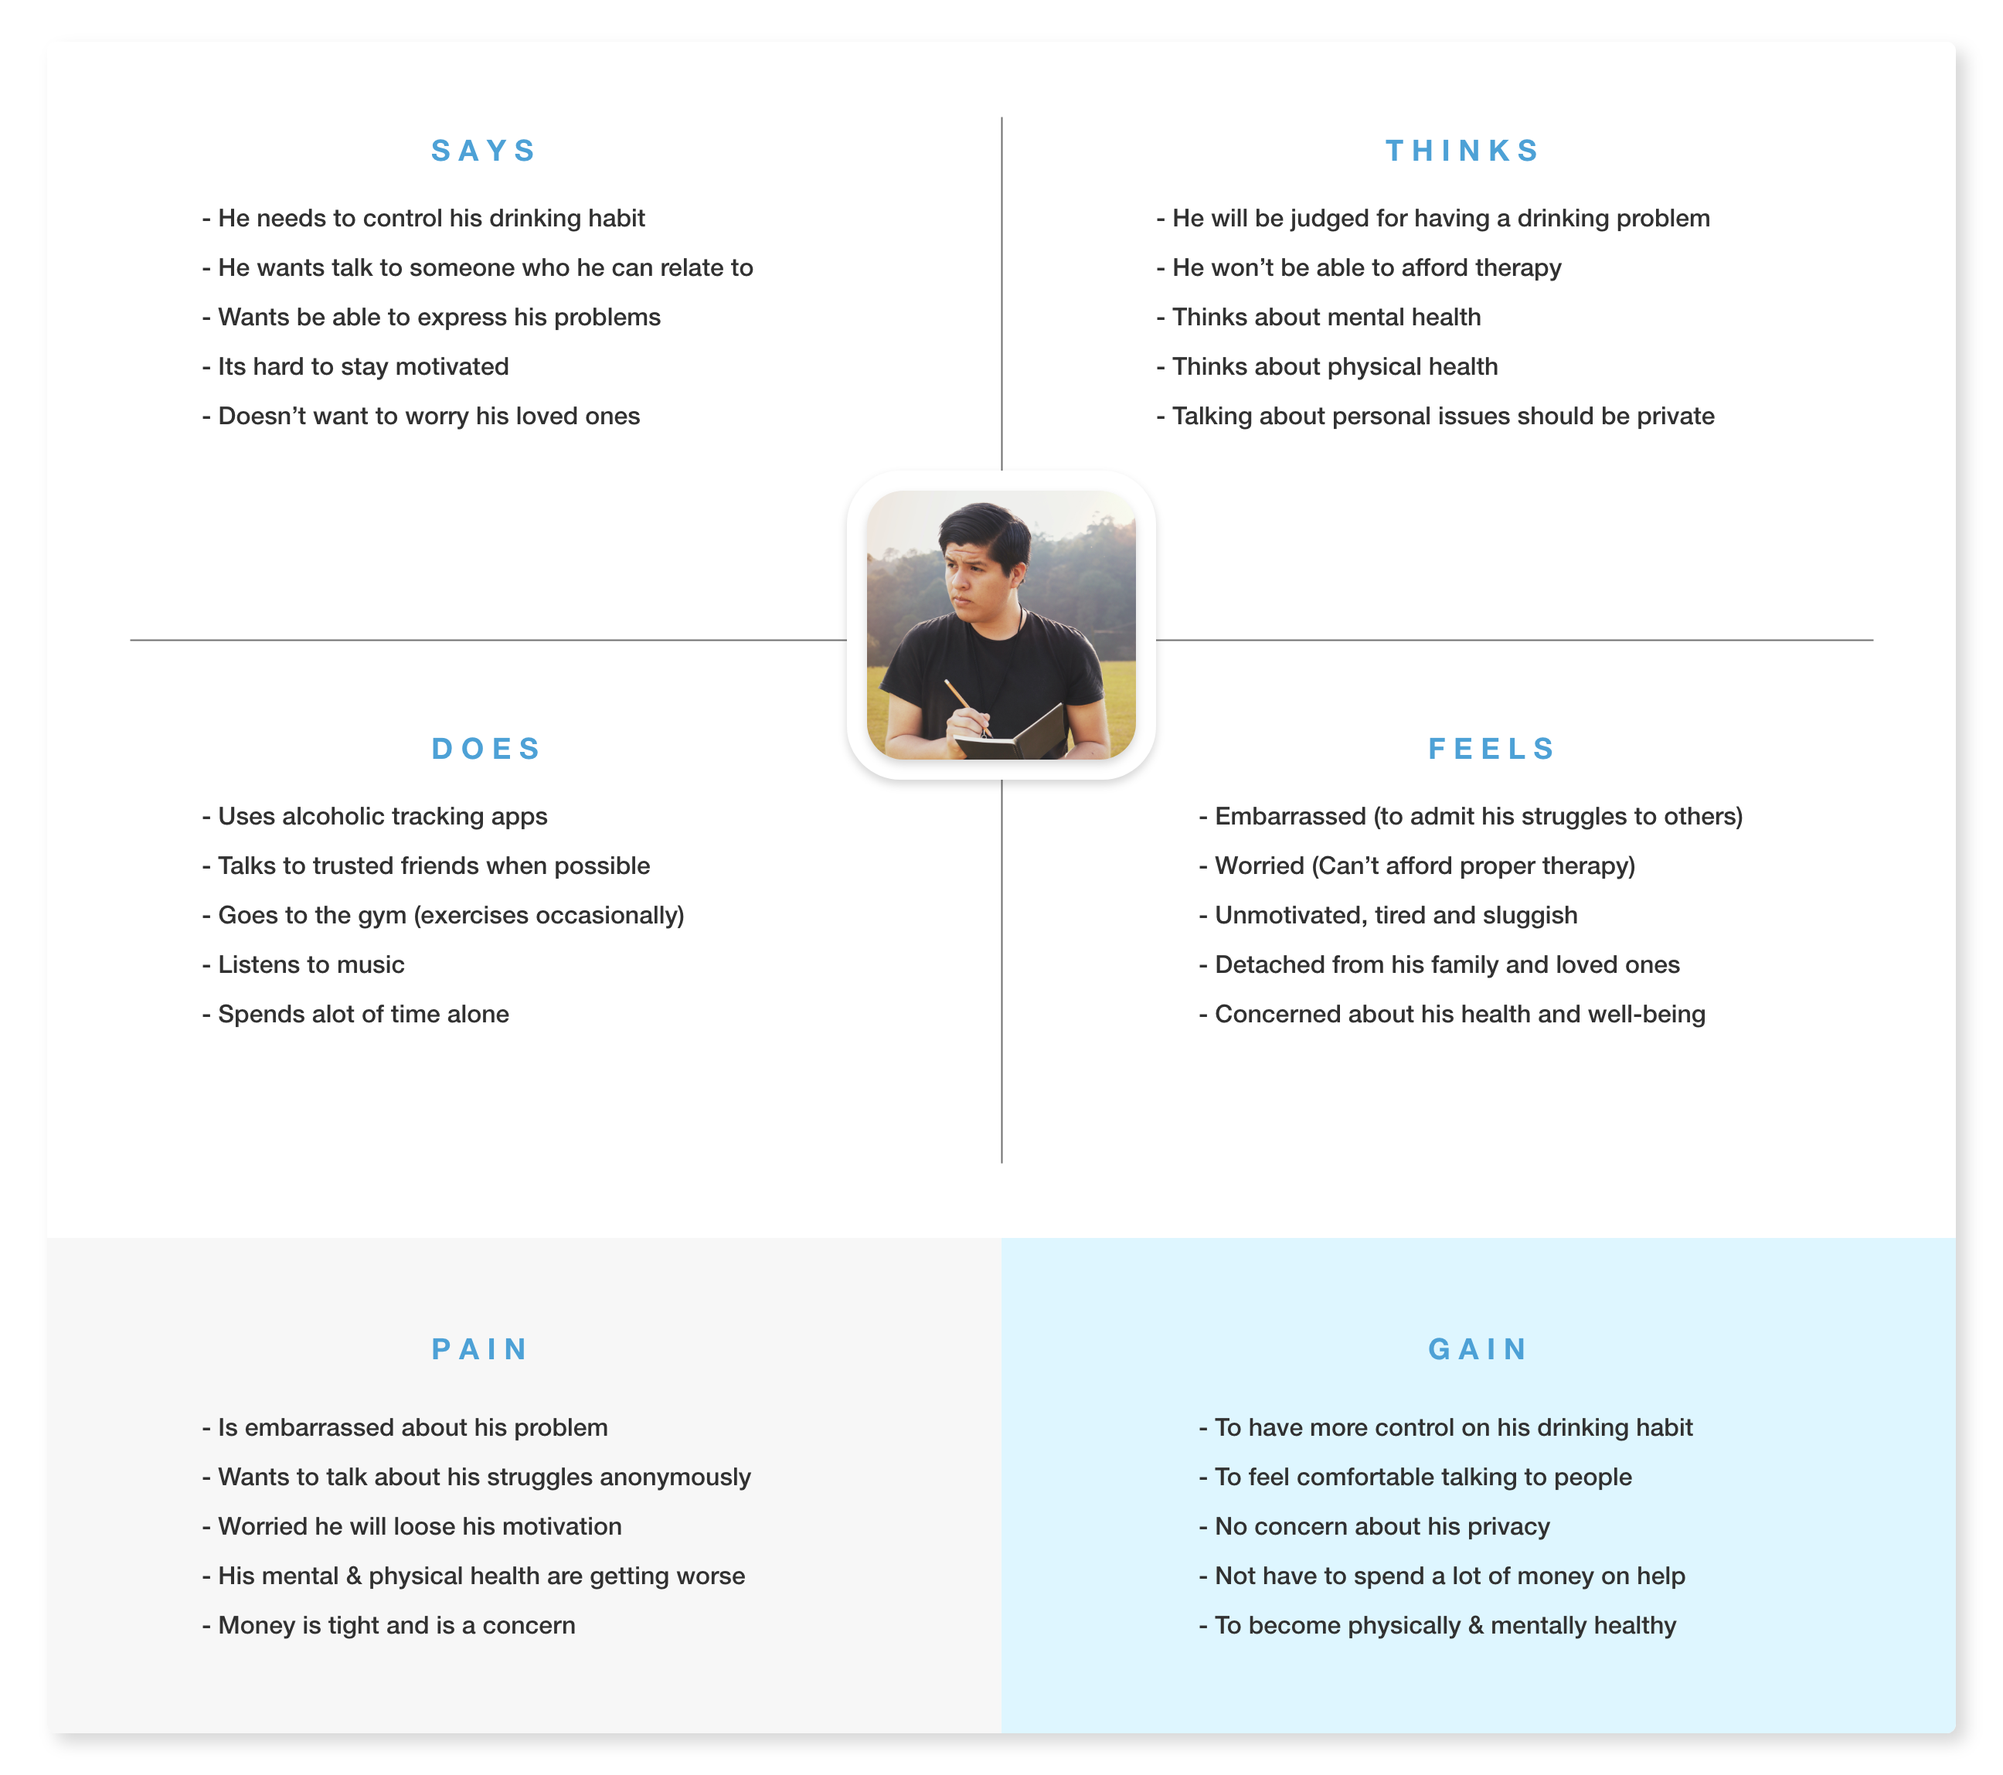
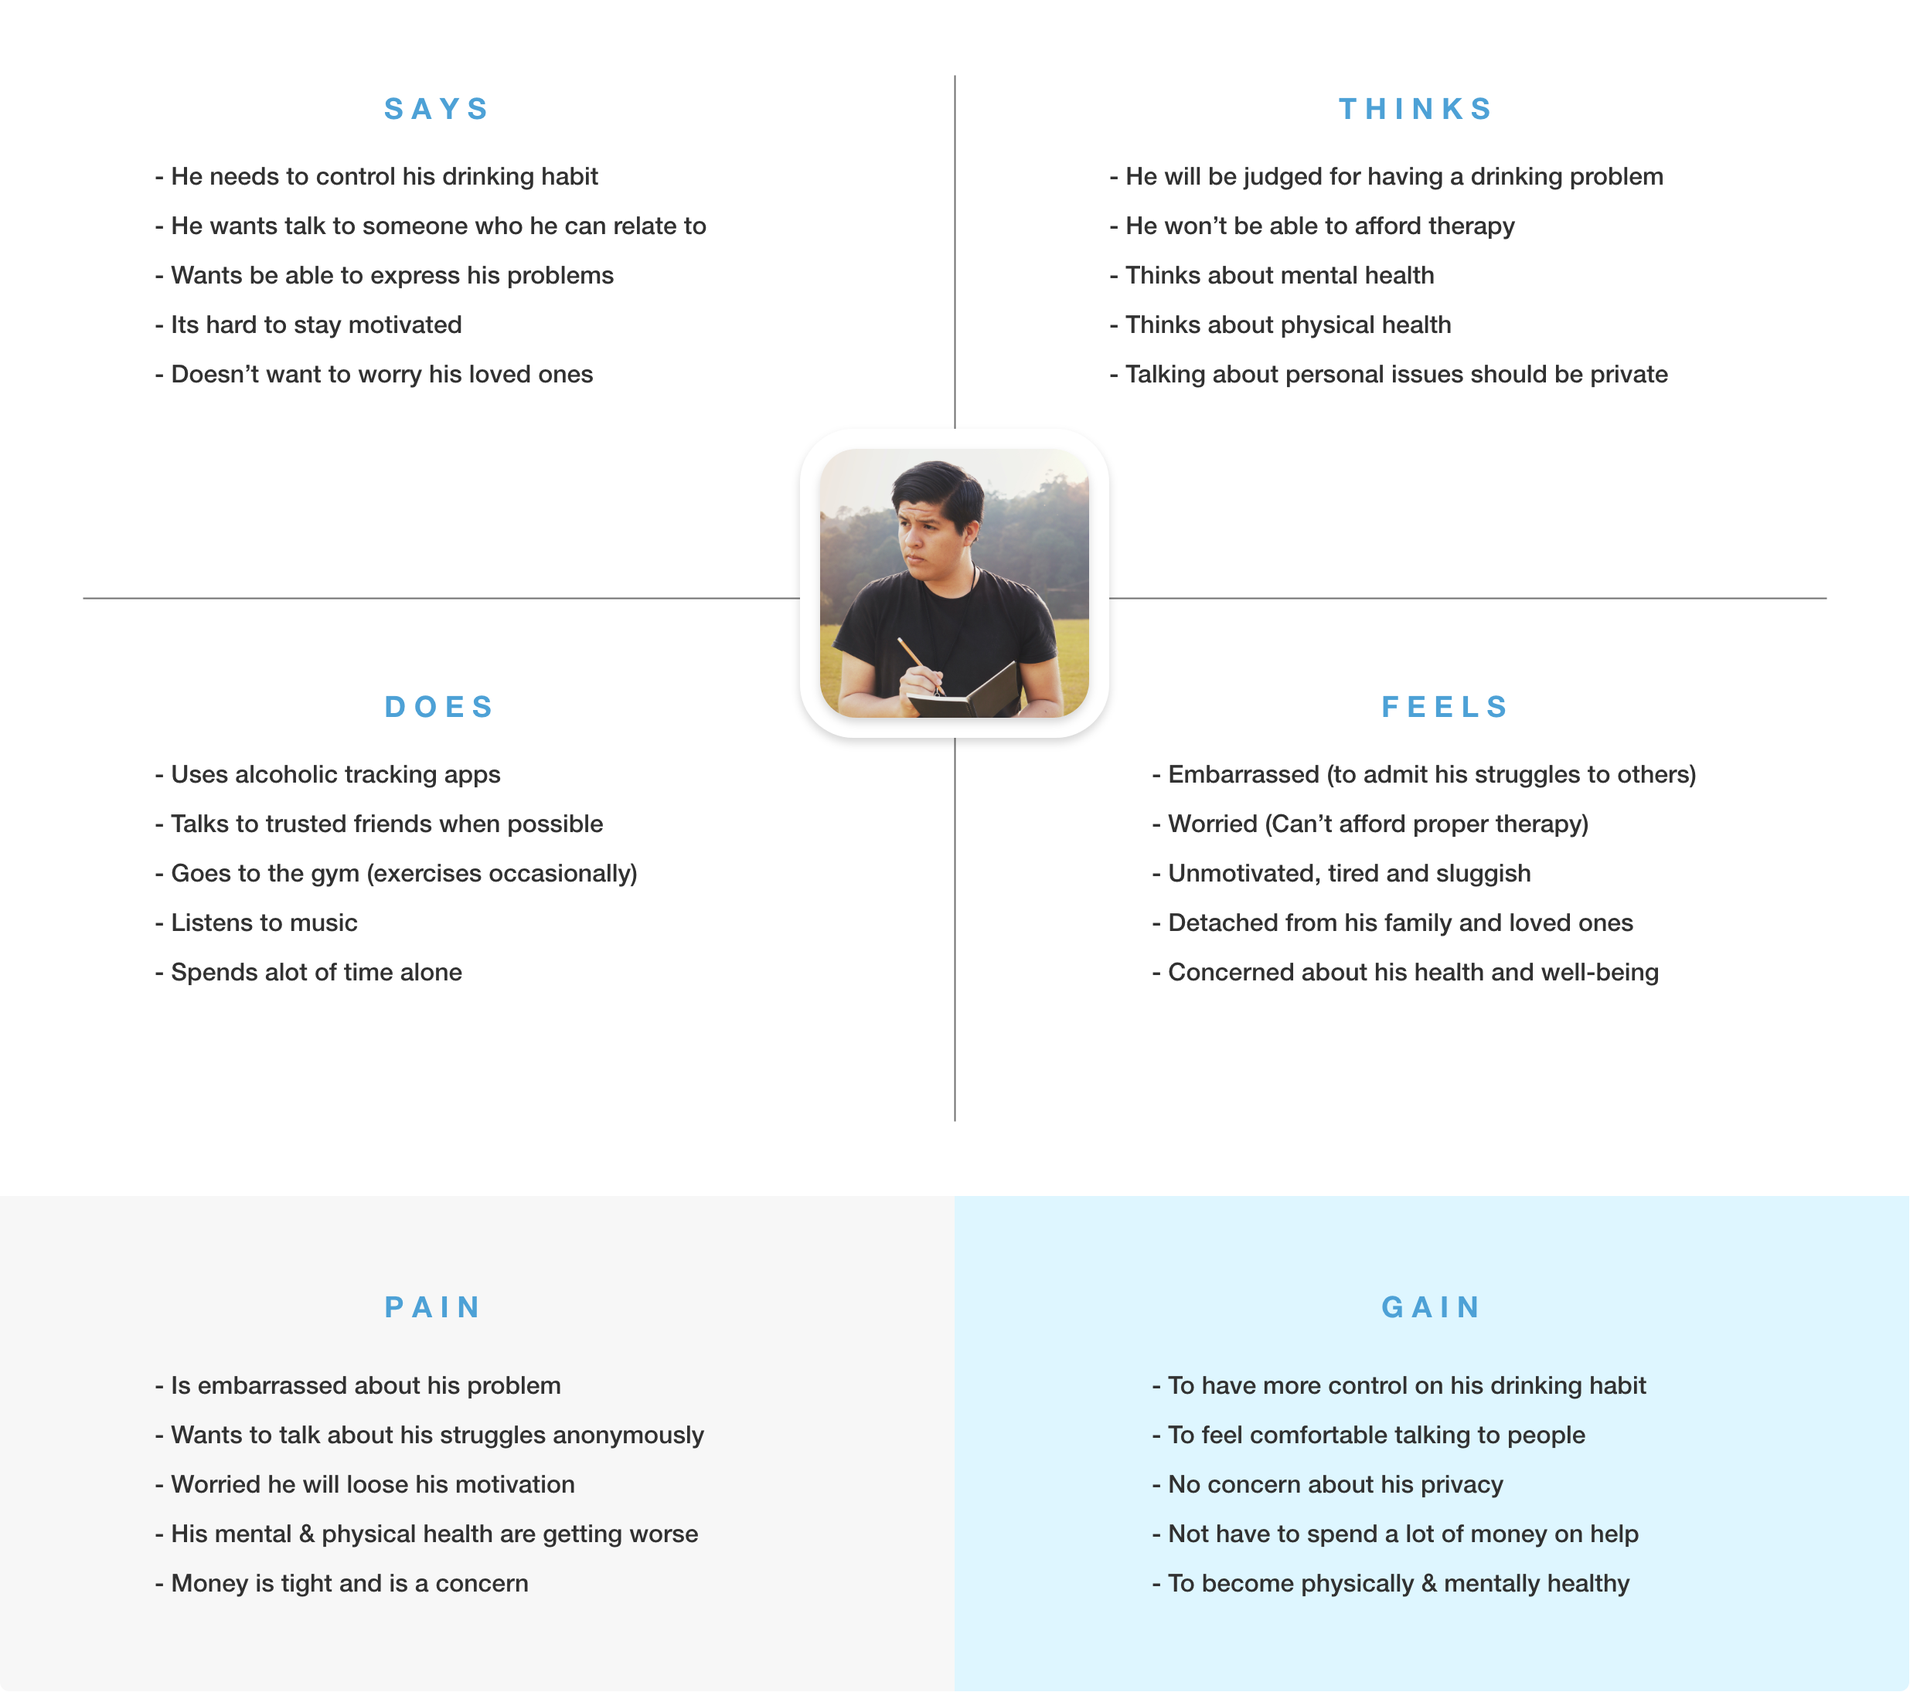
case-study-drop-shadows

diff --git a/dark-mode.html b/dark-mode.html
@@ -55,7 +55,7 @@ layout: default
     <div class="max-length">
       <h3 class="jm-mega jm-mega-xxl bold main-blue push-0 pad-b-1-2">Elevation</h3>
       <p class="jm-kilo jm-body-xxl push">Higher surface elevations become lighter Semi-transparent overlays are used on the surface colour transparent colour overlays ensure consistency.</p>
-      <img class="img-flex text-center push" src="/images/dark-mode/properties/elevation.png">
+      <img class="drop-shadow-soft-2 img-flex text-center push" src="/images/dark-mode/properties/elevation.png">
     </div>
   </div>
 
@@ -72,7 +72,7 @@ layout: default
   </div>
 
   <div class="unit xs-1 s-1 m-1 l-1-2 text-left case-study-pad-left island pad-right-illus pad-right-illus-xl">
-    <img class="img-flex text-center push" src="/images/dark-mode/colours-type/colours.png">
+    <img class="drop-shadow-soft-2 img-flex text-center push" src="/images/dark-mode/colours-type/colours.png">
   </div>
 
 </div>
@@ -94,7 +94,7 @@ layout: default
   </div>
 
   <div class="unit xs-1 s-1 m-1 l-1-2 text-left case-study-pad-left island pad-right-illus pad-right-illus-xl">
-    <img class="img-flex text-center push" src="/images/dark-mode/colours-type/on-colours.png">
+    <img class="drop-shadow-soft-3 img-flex text-center push" src="/images/dark-mode/colours-type/on-colours.png">
   </div>
 
 </div>
@@ -110,7 +110,7 @@ layout: default
   </div>
 
   <div class="unit xs-1 s-1 m-1 l-1-2 text-left case-study-pad-left island pad-right-illus pad-right-illus-xl">
-    <img class="img-flex text-center push" src="/images/dark-mode/colours-type/text-emphasis.png">
+    <img class="drop-shadow-soft-3 img-flex text-center push" src="/images/dark-mode/colours-type/text-emphasis.png">
   </div>
 
 </div>
@@ -127,12 +127,10 @@ layout: default
   <p class="jm-kilo jm-body-xxl push-2">I took a look at existing dark themed products/UI for some design inspiration. I needed to see what trends they were using, as well as how their colours interact with their UI components. Some popular products I took a look at included Spotify, Microsoft Teams & Twitter.</p>
 </div>
 
-<div class="pad-b pad-t-2 dark-mode">
- <img class="img-flex ninety-five-l drop-shadow-dm" src="/images/dark-mode/inspiration.png">
-</div>
+<div class="pad-t-2 dark-mode">
+ <img class="img-flex ninety-five-l drop-shadow-dm push-2" src="/images/dark-mode/inspiration.png">
 
 <!-- H3: Colours & Themes -->
-<div class="dark-mode">
 <div class="island island-0 max-length">
   <h3 class="jm-tera jm-tera-xxl center-l pad-t-2 bold main-blue">Colours & Themes</h3>
   <p class="jm-kilo dm-text jm-body-xxl push-0">The research I have done on Material Design gave me an in depth understating on how dark themes are designed. It was finally time for me to start translating RapidResponse’s Colours to our unique Dark Theme. This stage took the most work, because I had to test how the colours interacted with the rest of the UI.</p>
@@ -141,7 +139,7 @@ layout: default
 
 <div class="dark-mode">
 <div class="pad-t-2 case-max-length-l">
- <img class="img-flex text-center push-2 drop-shadow-dm" src="/images/dark-mode/themes/dark-mode-colours@2x.png">
+ <img class="img-flex eighty-five-l text-center push-2 drop-shadow-dm-soft" src="/images/dark-mode/themes/dark-mode-colours@2x.png">
 </div>
 
 <div class="island island-0 max-length">
@@ -149,7 +147,7 @@ layout: default
 </div>
 
 <div class="pad-t-2 case-max-length-l">
- <img class="img-flex text-center push-2 drop-shadow-dm" src="/images/dark-mode/themes/theme@2x.png">
+ <img class="img-flex eighty-five-l text-center push-2 drop-shadow-dm-soft" src="/images/dark-mode/themes/theme@2x.png">
 </div>
 
 <div class="island island-0 max-length">
@@ -157,7 +155,7 @@ layout: default
 </div>
 
 <div class="pad-t-2 case-max-length-l">
- <img class="img-flex text-center push-2 drop-shadow-dm" src="/images/dark-mode/themes/typography@2x.png">
+ <img class="img-flex eighty-five-l text-center push-2 drop-shadow-dm-soft" src="/images/dark-mode/themes/typography@2x.png">
 </div>
 
 <!-- H3: UI Components -->
@@ -169,35 +167,35 @@ layout: default
 <!-- UI Components: Grid -->
 <div class="grid island">
   <div class="unit xs-1 s-1 m-1-2 l-1-2 pad-t-2">
-    <img class="img-flex pad-b-1-4 pad-t-1-4 eighty drop-shadow-dm" src="/images/dark-mode/components/banner-bottom@2x.png">
+    <img class="img-flex pad-b-1-4 pad-t-1-4 eighty drop-shadow-dm-soft" src="/images/dark-mode/components/banner-bottom@2x.png">
   </div>
 
   <div class="unit xs-1 s-1 m-1-2 l-1-2 pad-t-2">
-    <img class="img-flex pad-b-1-4 pad-t-1-4 eighty drop-shadow-dm" src="/images/dark-mode/components/buttons@2x.png">
+    <img class="img-flex pad-b-1-4 pad-t-1-4 eighty drop-shadow-dm-soft" src="/images/dark-mode/components/buttons@2x.png">
   </div>
 
   <div class="unit xs-1 s-1 m-1-2 l-1-2 pad-t-2">
-    <img class="img-flex pad-b-1-4 pad-t-1-4 eighty drop-shadow-dm" src="/images/dark-mode/components/dialog-banners@2x.png">
+    <img class="img-flex pad-b-1-4 pad-t-1-4 eighty drop-shadow-dm-soft" src="/images/dark-mode/components/dialog-banners@2x.png">
   </div>
 
   <div class="unit xs-1 s-1 m-1-2 l-1-2 pad-t-2">
-    <img class="img-flex pad-b-1-4 pad-t-1-4 eighty drop-shadow-dm" src="/images/dark-mode/components/dropdowns@2x.png">
+    <img class="img-flex pad-b-1-4 pad-t-1-4 eighty drop-shadow-dm-soft" src="/images/dark-mode/components/dropdowns@2x.png">
   </div>
 
   <div class="unit xs-1 s-1 m-1-2 l-1-2 pad-t-2">
-    <img class="img-flex pad-b-1-4 pad-t-1-4 eighty drop-shadow-dm" src="/images/dark-mode/components/filter-chips@2x.png">
+    <img class="img-flex pad-b-1-4 pad-t-1-4 eighty drop-shadow-dm-soft" src="/images/dark-mode/components/filter-chips@2x.png">
   </div>
 
   <div class="unit xs-1 s-1 m-1-2 l-1-2 pad-t-2">
-    <img class="img-flex pad-b-1-4 pad-t-1-4 eighty drop-shadow-dm" src="/images/dark-mode/components/gallery-lists@2x.png">
+    <img class="img-flex pad-b-1-4 pad-t-1-4 eighty drop-shadow-dm-soft" src="/images/dark-mode/components/gallery-lists@2x.png">
   </div>
 
   <div class="unit xs-1 s-1 m-1-2 l-1-2 pad-t-2">
-    <img class="img-flex pad-b-1-4 pad-t-1-4 eighty drop-shadow-dm" src="/images/dark-mode/components/selection@2x.png">
+    <img class="img-flex pad-b-1-4 pad-t-1-4 eighty drop-shadow-dm-soft" src="/images/dark-mode/components/selection@2x.png">
   </div>
 
   <div class="unit xs-1 s-1 m-1-2 l-1-2 pad-t-2">
-    <img class="img-flex pad-b-1-4 pad-t-1-4 eighty drop-shadow-dm" src="/images/dark-mode/components/snackbar@2x.png">
+    <img class="img-flex pad-b-1-4 pad-t-1-4 eighty drop-shadow-dm-soft" src="/images/dark-mode/components/snackbar@2x.png">
   </div>
 </div>
 </div>

diff --git a/parcel.html b/parcel.html
@@ -127,7 +127,7 @@ layout: default
   </div>
 
   <div class="unit xs-1 s-1 m-1 l-1-2 text-left case-study-pad-left island pad-right-illus pad-right-illus-xl">
-    <img class="img-flex push" src="/images/parcel/logos/logo-guide-title.png">
+    <div class="drop-shadow-soft-3"><img class="img-flex push" src="/images/parcel/logos/logo-guide-title.png"></div>
   </div>
 
 </div>
@@ -142,11 +142,11 @@ layout: default
 <div class="island island-0 max-length">
   <h4 class="jm-giga center-l extra-bold dark-gray push-0 pad-b-1-2 pad-t-2">Inspirations</h4>
   <p class="jm-kilo jm-body-xxl push-2">I needed to get an idea of how to document our components. I looked at some of the most refined and well-documented design systems out there including: Shopify, Google and IBM. Their documentation pages are very thorough and provided lots of detailed examples.</p>
-  <img class="img-flex text-center push-1-2" src="/images/parcel/inspirations/polaris.jpg">
+  <img class="drop-shadow-soft-2 img-flex text-center push-1-2" src="/images/parcel/inspirations/polaris.jpg">
   <div class="text-center push-2"><a class="jm-kilo jm-body-xxl open-sans" href="https://polaris.shopify.com/">Shopify’s Polaris Design System</a></div>
-  <img class="img-flex text-center push-1-2" src="/images/parcel/inspirations/material.jpg">
+  <img class="drop-shadow-soft-2 img-flex text-center push-1-2" src="/images/parcel/inspirations/material.jpg">
   <div class="text-center push-2"><a class="jm-kilo jm-body-xxl open-sans" href="https://material.io/design">Googles’ Material Design System</a></div>
-  <img class="img-flex text-center push-1-2" src="/images/parcel/inspirations/carbon.jpg">
+  <img class="drop-shadow-soft-2 img-flex text-center push-1-2" src="/images/parcel/inspirations/carbon.jpg">
   <div class="text-center push-2"><a class="jm-kilo jm-body-xxl open-sans" href="https://www.carbondesignsystem.com/">IMB’s Carbon Design System</a></div>
 </div>
 
@@ -200,7 +200,7 @@ layout: default
 </div>
 
 <div class="island island-0 case-max-length-l max-length-case-study-xxl">
-  <img class="img-flex text-center push" src="/images/parcel/markdown.png">
+  <img class="drop-shadow-soft-2 img-flex eighty-l push" src="/images/parcel/markdown.png">
 </div>
 
 <!-- Mock Ups -->
@@ -220,7 +220,7 @@ layout: default
 </div>
 
 <div class="island island-0 case-max-length-l max-length-case-study-xxl">
-  <img class="img-flex text-center push-2 pad-t" src="/images/parcel/current-design/overview2x.png">
+  <img class="drop-shadow-soft-2 img-flex text-center push-2 pad-t" src="/images/parcel/current-design/overview2x.png">
 </div>
 
 <div class="island island-0 max-length">
@@ -229,27 +229,27 @@ layout: default
 
 <div class="island island-0 case-max-length-l max-length-case-study-xxl">
   <h3 class="jm-mega jm-mega-xxl bold main-blue push-1-2 pad-t-2 pad-b-1-2">Components & Details</h3>
-  <img class="img-flex text-center push" src="/images/parcel/current-design/button-components2x.png">
+  <img class="drop-shadow-soft-2 img-flex text-center push" src="/images/parcel/current-design/button-components2x.png">
 </div>
 
 <div class="island island-0 case-max-length-l max-length-case-study-xxl">
   <h3 class="jm-mega jm-mega-xxl bold main-blue push-1-2 pad-b-1-2">Component Code</h3>
-  <img class="img-flex text-center push" src="/images/parcel/current-design/code2x.png">
+  <img class="drop-shadow-soft-2 img-flex text-center push" src="/images/parcel/current-design/code2x.png">
 </div>
 
 <div class="island island-0 case-max-length-l max-length-case-study-xxl">
   <h3 class="jm-mega jm-mega-xxl bold main-blue push-1-2 pad-b-1-2">Props</h3>
-  <img class="img-flex text-center push" src="/images/parcel/current-design/props2x.png">
+  <img class="drop-shadow-soft-2 img-flex text-center push" src="/images/parcel/current-design/props2x.png">
 </div>
 
 <div class="island island-0 case-max-length-l max-length-case-study-xxl">
   <h3 class="jm-mega jm-mega-xxl bold main-blue push-1-2 pad-b-1-2">Button States</h3>
-  <img class="img-flex text-center push" src="/images/parcel/current-design/states2x.png">
+  <img class="drop-shadow-soft-2 img-flex text-center push" src="/images/parcel/current-design/states2x.png">
 </div>
 
 <div class="island island-0 case-max-length-l max-length-case-study-xxl">
   <h3 class="jm-mega jm-mega-xxl bold main-blue push-1-2 pad-b-1-2">Usage Guidelines</h3>
-  <img class="img-flex text-center push" src="/images/parcel/current-design/guidelines2x.png">
+  <img class="drop-shadow-soft-2 img-flex text-center push" src="/images/parcel/current-design/guidelines2x.png">
 </div>
 
 <!-- Review Implementation -->

diff --git a/anocate-app.html b/anocate-app.html
@@ -113,8 +113,8 @@ layout: default
   <p class="jm-kilo pad-b-2 push-0 max-length-case-study">I developed user personas based on my market research. These personas were made to represent the demographic. They outline the user’s motivations, needs and frustrations. They helped outline opportunities for improvements that can be made.</p>
 </div>
 <div class="island island-0 case-max-length-l">
-  <img class="img-flex text-center push" src="/images/anocate/app/personas/anocate-persona-1.png">
-  <img class="img-flex text-center push" src="/images/anocate/app/personas/anocate-persona-2.png">
+  <img class="img-flex text-center push-2 drop-shadow-persona ninety-l" src="/images/anocate/app/personas/anocate-persona-1.png">
+  <img class="img-flex text-center push-2 drop-shadow-persona ninety-l" src="/images/anocate/app/personas/anocate-persona-2.png">
 </div>
 
 <! -- Empathy Map -->
@@ -123,7 +123,7 @@ layout: default
   <p class="jm-kilo pad-b-2 push-0 max-length-case-study">I developed user personas based on my market research. These personas were made to represent the demographic. They outline the user’s motivations, needs and frustrations. They helped outline opportunities for improvements that can be made.</p>
 </div>
 <div class="island island-0 case-max-length-l pad-b">
-  <img class="img-flex text-center push" src="/images/anocate/app/personas/empathy-map.png">
+  <img class="img-flex text-center push eighty-five-l drop-shadow-empathy" src="/images/anocate/app/personas/empathy-map.png">
 </div>
 
 <div class="island island-0 max-length">

diff --git a/css/theme.css b/css/theme.css
@@ -462,7 +462,7 @@ strong {
 }
 
 .drop-shadow-phone {
-  box-shadow: 1px 1px 10px 1px #DDDDDD;
+  box-shadow: 0px 20px 55px rgba(0, 0, 0, 0.12);
   border-radius: 1rem;
 }
 
@@ -526,6 +526,28 @@ strong {
 }
 
 .drop-shadow-soft {
+  box-shadow: 0px 70px 100px rgba(0, 0, 0, 0.15);
+}
+
+.drop-shadow-soft-2 {
+  box-shadow: 0px 60px 85px rgba(0, 0, 0, 0.08);
+}
+
+.drop-shadow-soft-3 {
+  box-shadow: 0px 60px 85px rgba(0, 0, 0, 0.22);
+}
+
+.drop-shadow-empathy {
+  box-shadow: 0px 70px 95px rgba(0, 0, 0, 0.08);
+  border-radius: 6px;
+}
+
+.drop-shadow-persona {
+  box-shadow: 0px 60px 85px rgba(0, 0, 0, 0.08);
+  border-radius: 6px;
+}
+
+.drop-shadow-reg {
   box-shadow: 12px 12px 22px rgba(0, 0, 0, 0.15);
 }
 
@@ -534,7 +556,11 @@ strong {
 }
 
 .drop-shadow-dm {
-  box-shadow: 12px 12px 22px rgba(0, 0, 0, 0.65);
+  box-shadow: 0px 40px 75px rgba(0, 0, 0, 0.50);
+}
+
+.drop-shadow-dm-soft {
+  box-shadow: 0px 20px 40px rgba(0, 0, 0, 0.40);
 }
 
 .dm-text {
